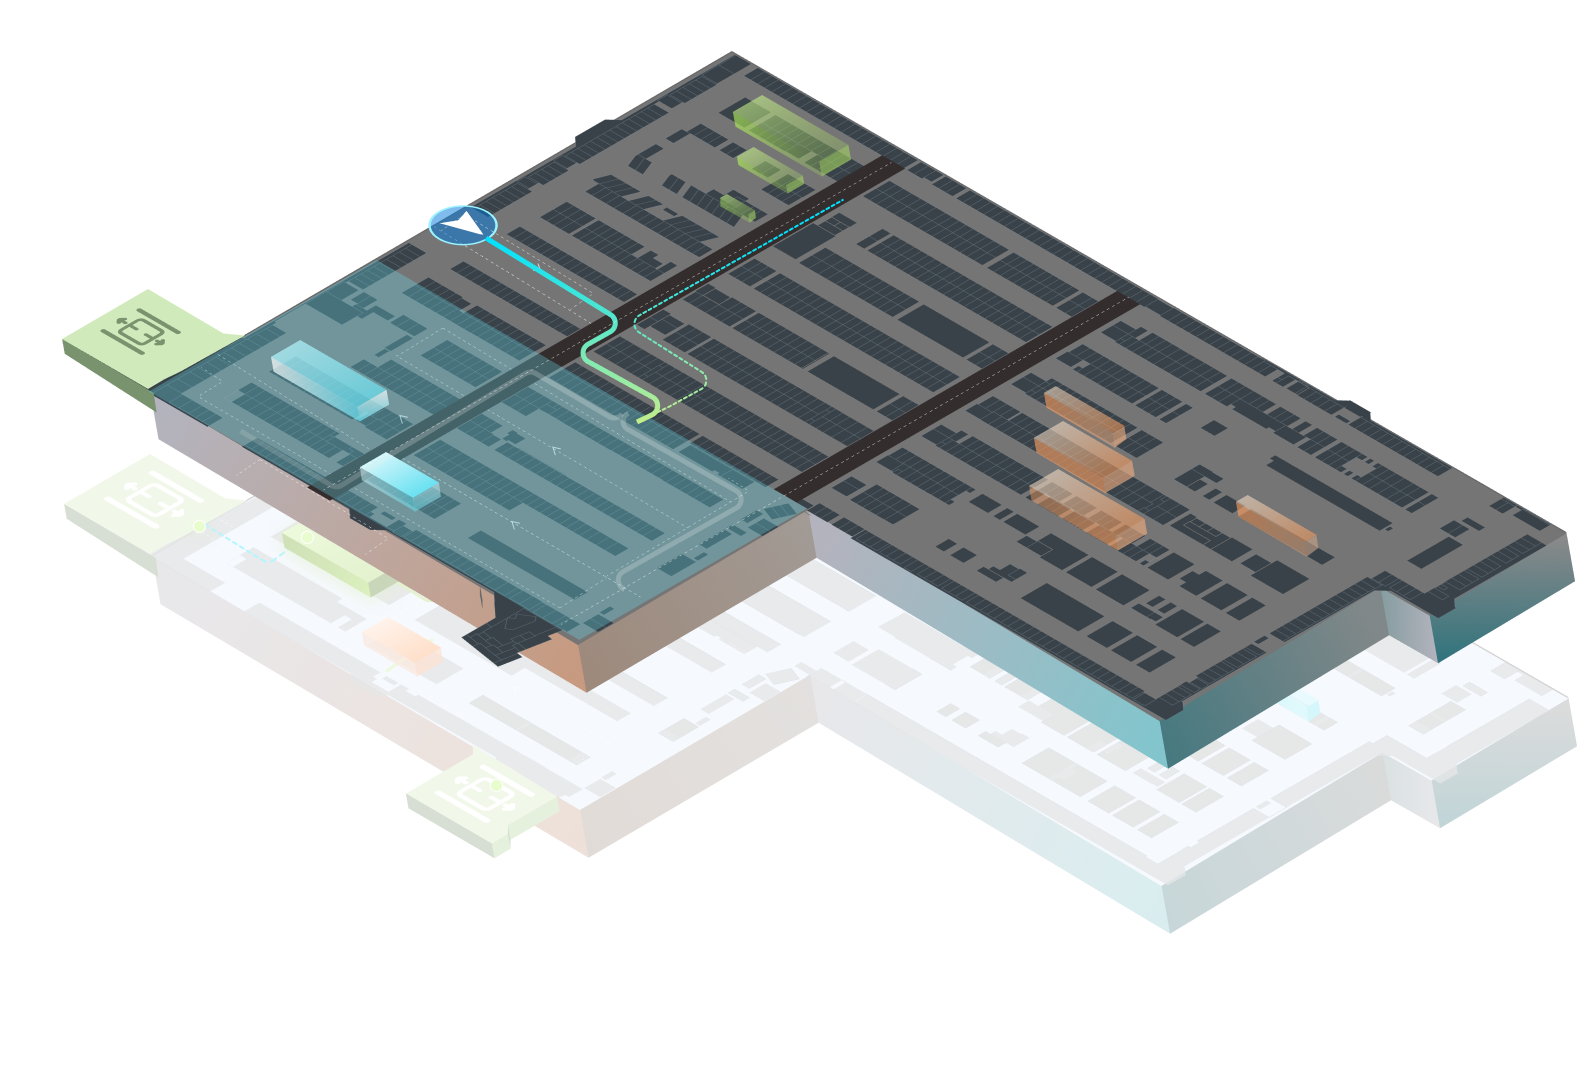
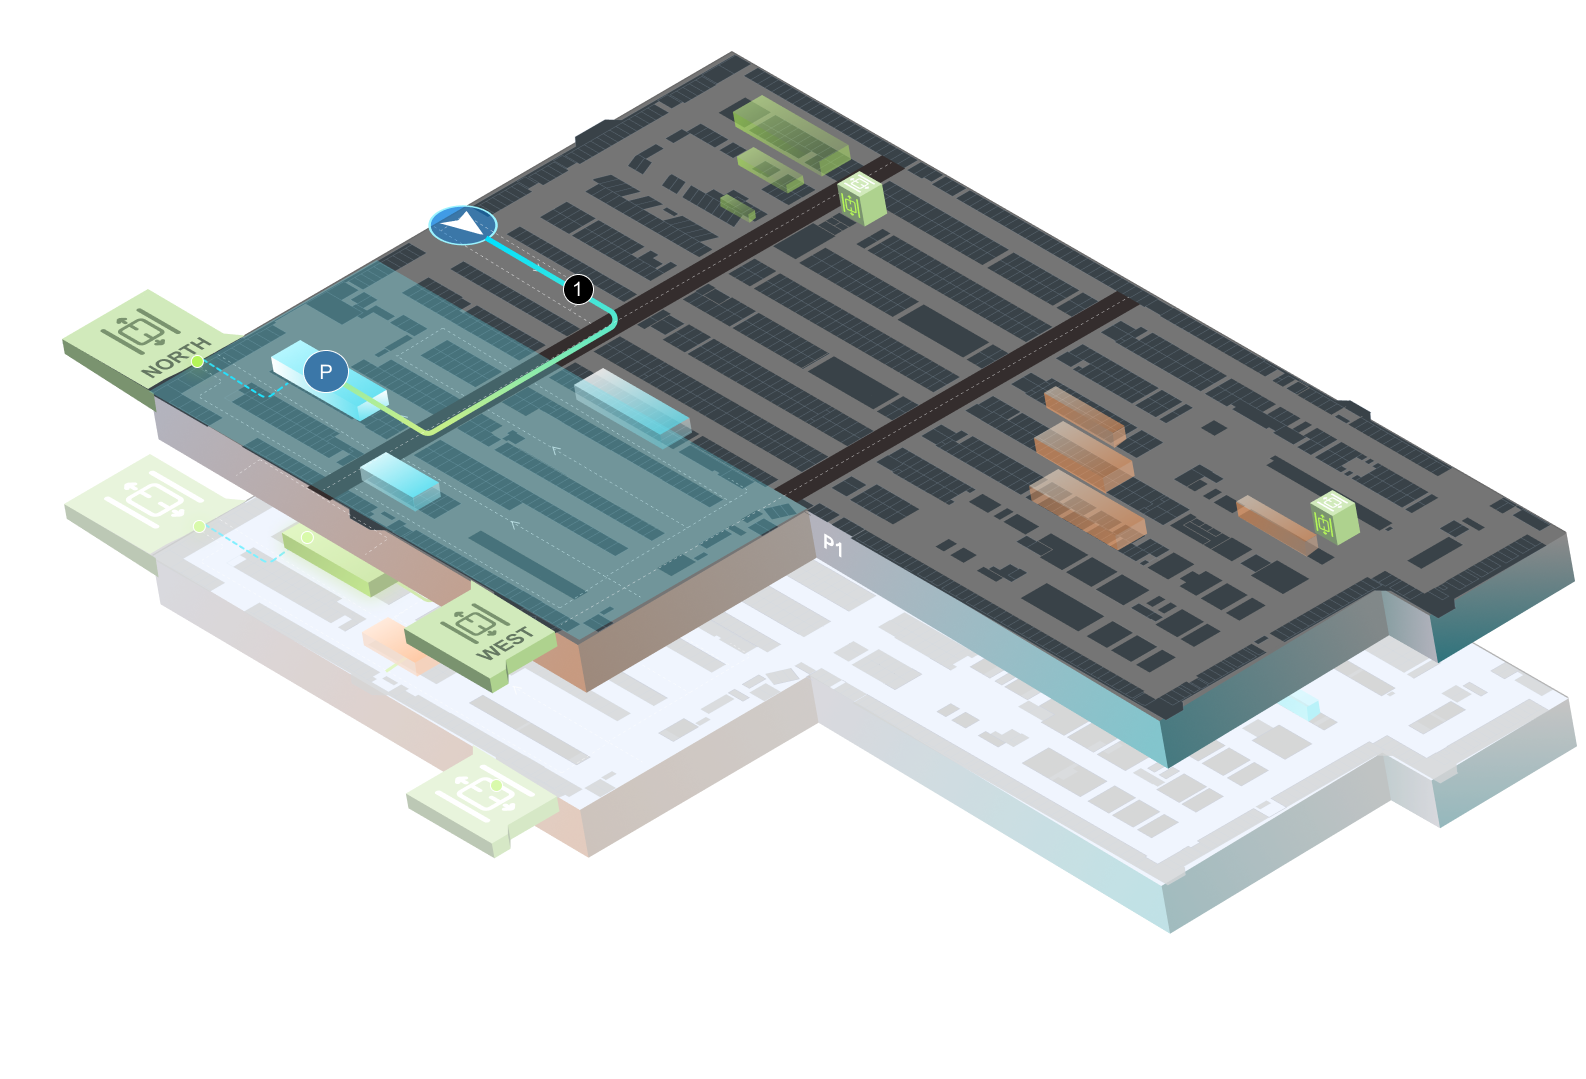
Update map and templates

diff --git a/copilot-frontend/src/pages/Map.tsx b/copilot-frontend/src/pages/Map.tsx
@@ -55,7 +55,8 @@ const Map = () => {
 
     // Convert stallNumber to integer and compare
     const stallNum = parseInt(recommendedParking.stallNumber?.toString() || '132');
-    return stallNum === 132 ? generalBlueB132 : generalBlueB110;
+    // return stallNum === 132 ? generalBlueB132 : generalBlueB110;
+    return generalBlueB110;
   };
 
   // Function to get detailed map image
@@ -120,7 +121,8 @@ const Map = () => {
     }
     
     const stallNum = parseInt(recommendedParking.stallNumber?.toString() || '132');
-    return stallNum === 132 ?mapConfigs['general-blue-b132'] : mapConfigs['general-blue-b110'];
+    // return stallNum === 132 ?mapConfigs['general-blue-b132'] : mapConfigs['general-blue-b110'];
+    return mapConfigs['general-blue-b110'];
   };
 
   const [selectedLevel, setSelectedLevel] = useState('P1');

diff --git a/CopilotBackend/src/utils/messageTemplates.ts b/CopilotBackend/src/utils/messageTemplates.ts
@@ -130,10 +130,8 @@ export const messageTemplates = {
       '',
       `For the shortest walk to your destination:`,
       '',
-      `1.Park in P1 ${recommendation?.location || '-----'}`,
-      '',
-      `2.Take the ${recommendation?.elevator || '-----'} elevator`,
-      '',
+      `1. Park in P1 ${recommendation?.location || '-----'}\n\n`,
+      `2. Take the ${recommendation?.elevator || '-----'} elevator\n\n`,
       `3. There are currently ${recommendation?.spots || '-----'} spots available in this area`,
       '',
       `You can view interactive map for more detiails. Let me know if you need any clarification or have questions!`,

diff --git a/copilot-frontend/src/config/mapConfigs.ts b/copilot-frontend/src/config/mapConfigs.ts
@@ -16,7 +16,7 @@ export const mapConfigs: Record<string, MapConfig> = {
       },
       {
         id: 'parking-1',
-        x: 40,
+        x: 38,
         y: 44,
         type: 'parking',
         tooltip: 'Parking Area',
@@ -36,8 +36,8 @@ export const mapConfigs: Record<string, MapConfig> = {
       },
       {
         id: 'parking-1',
-        x: 50,
-        y: 52,
+        x: 76,
+        y: 46,
         type: 'parking',
         tooltip: 'Parking Area',
         image: mapDemoActual2,
